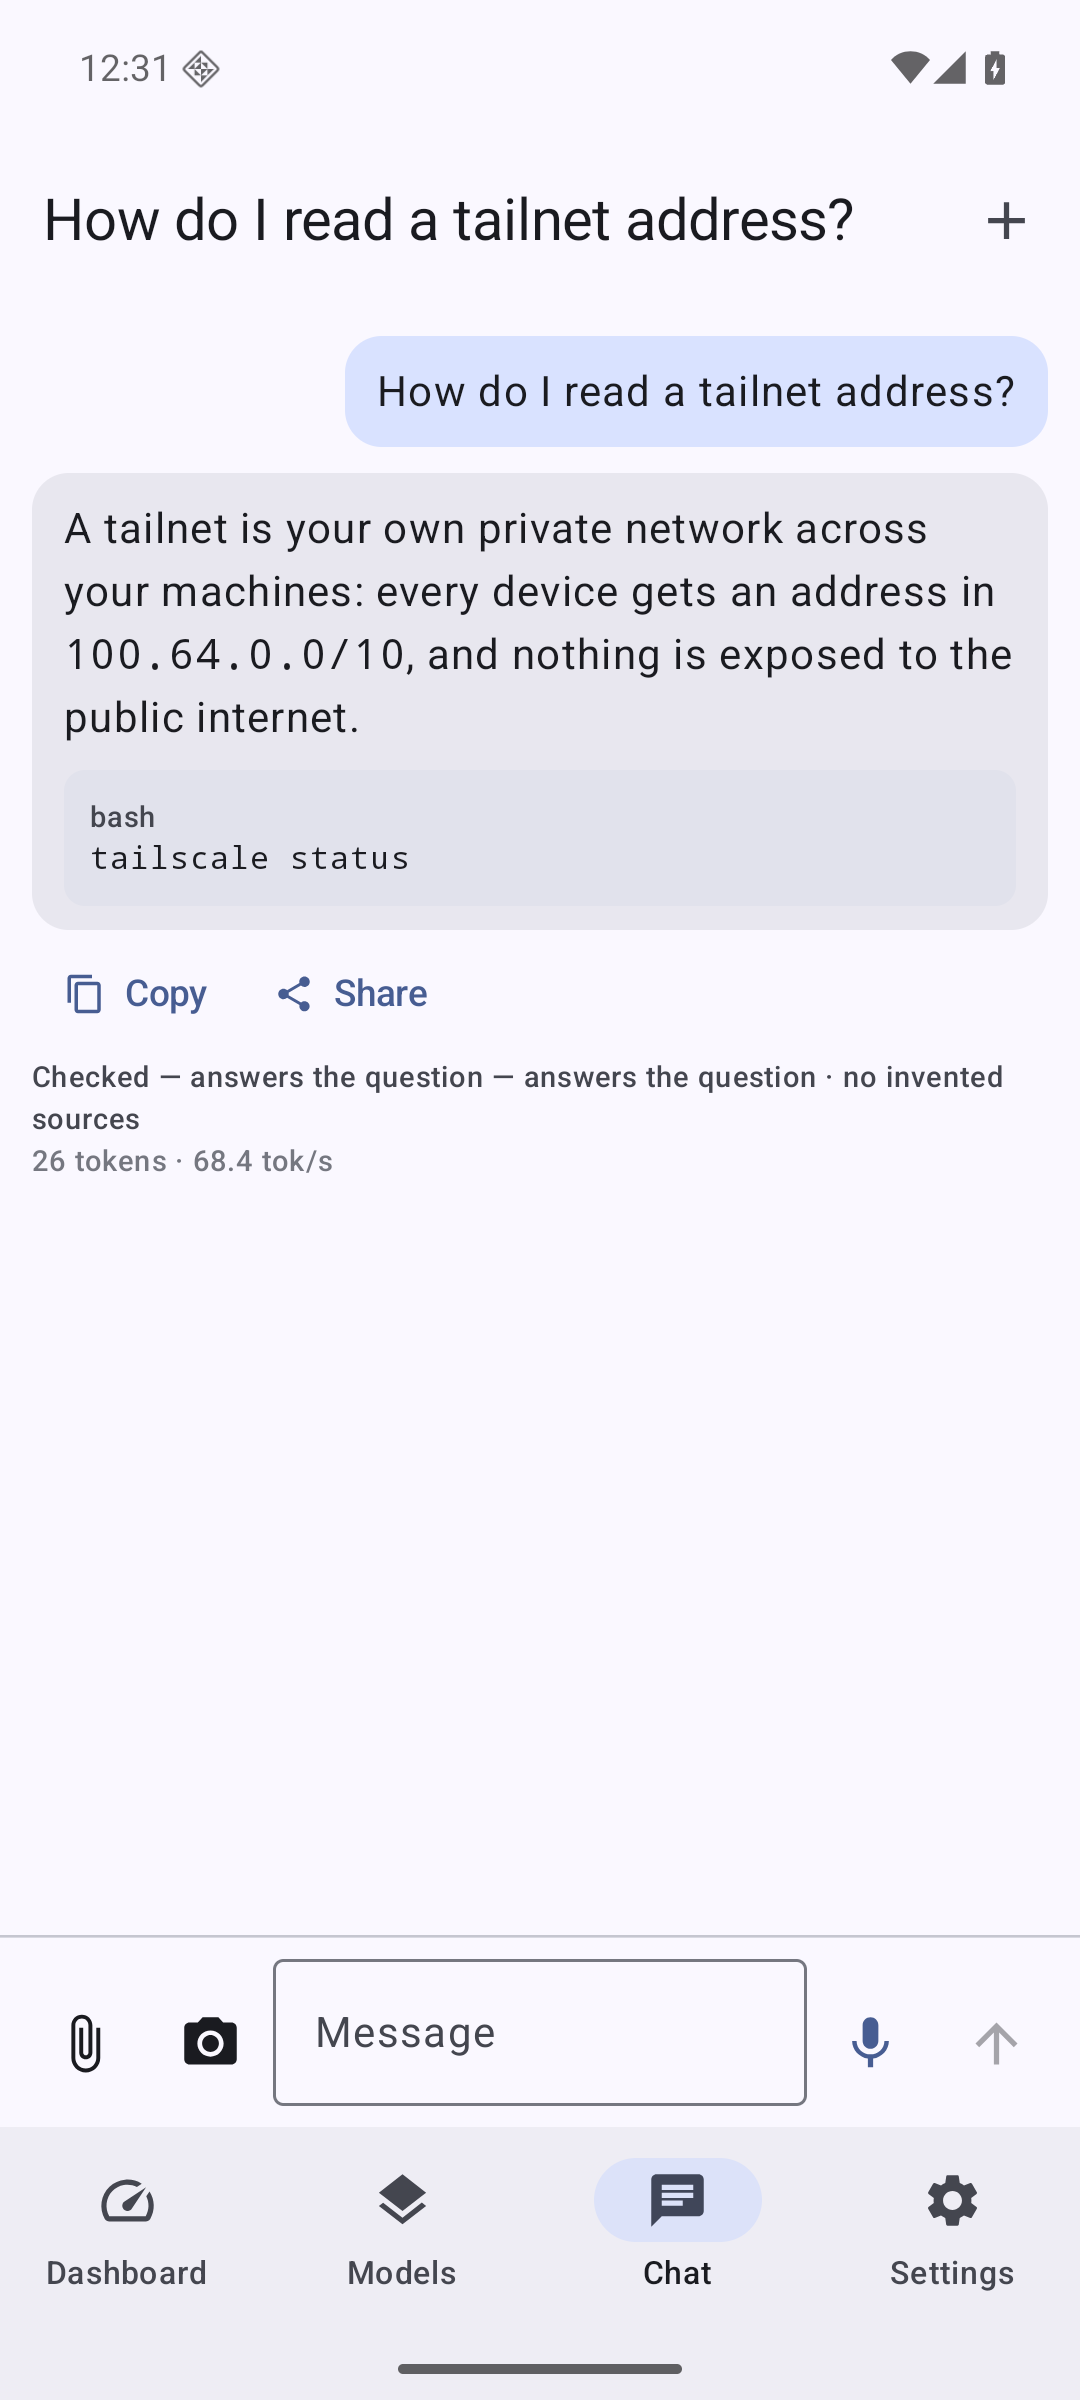
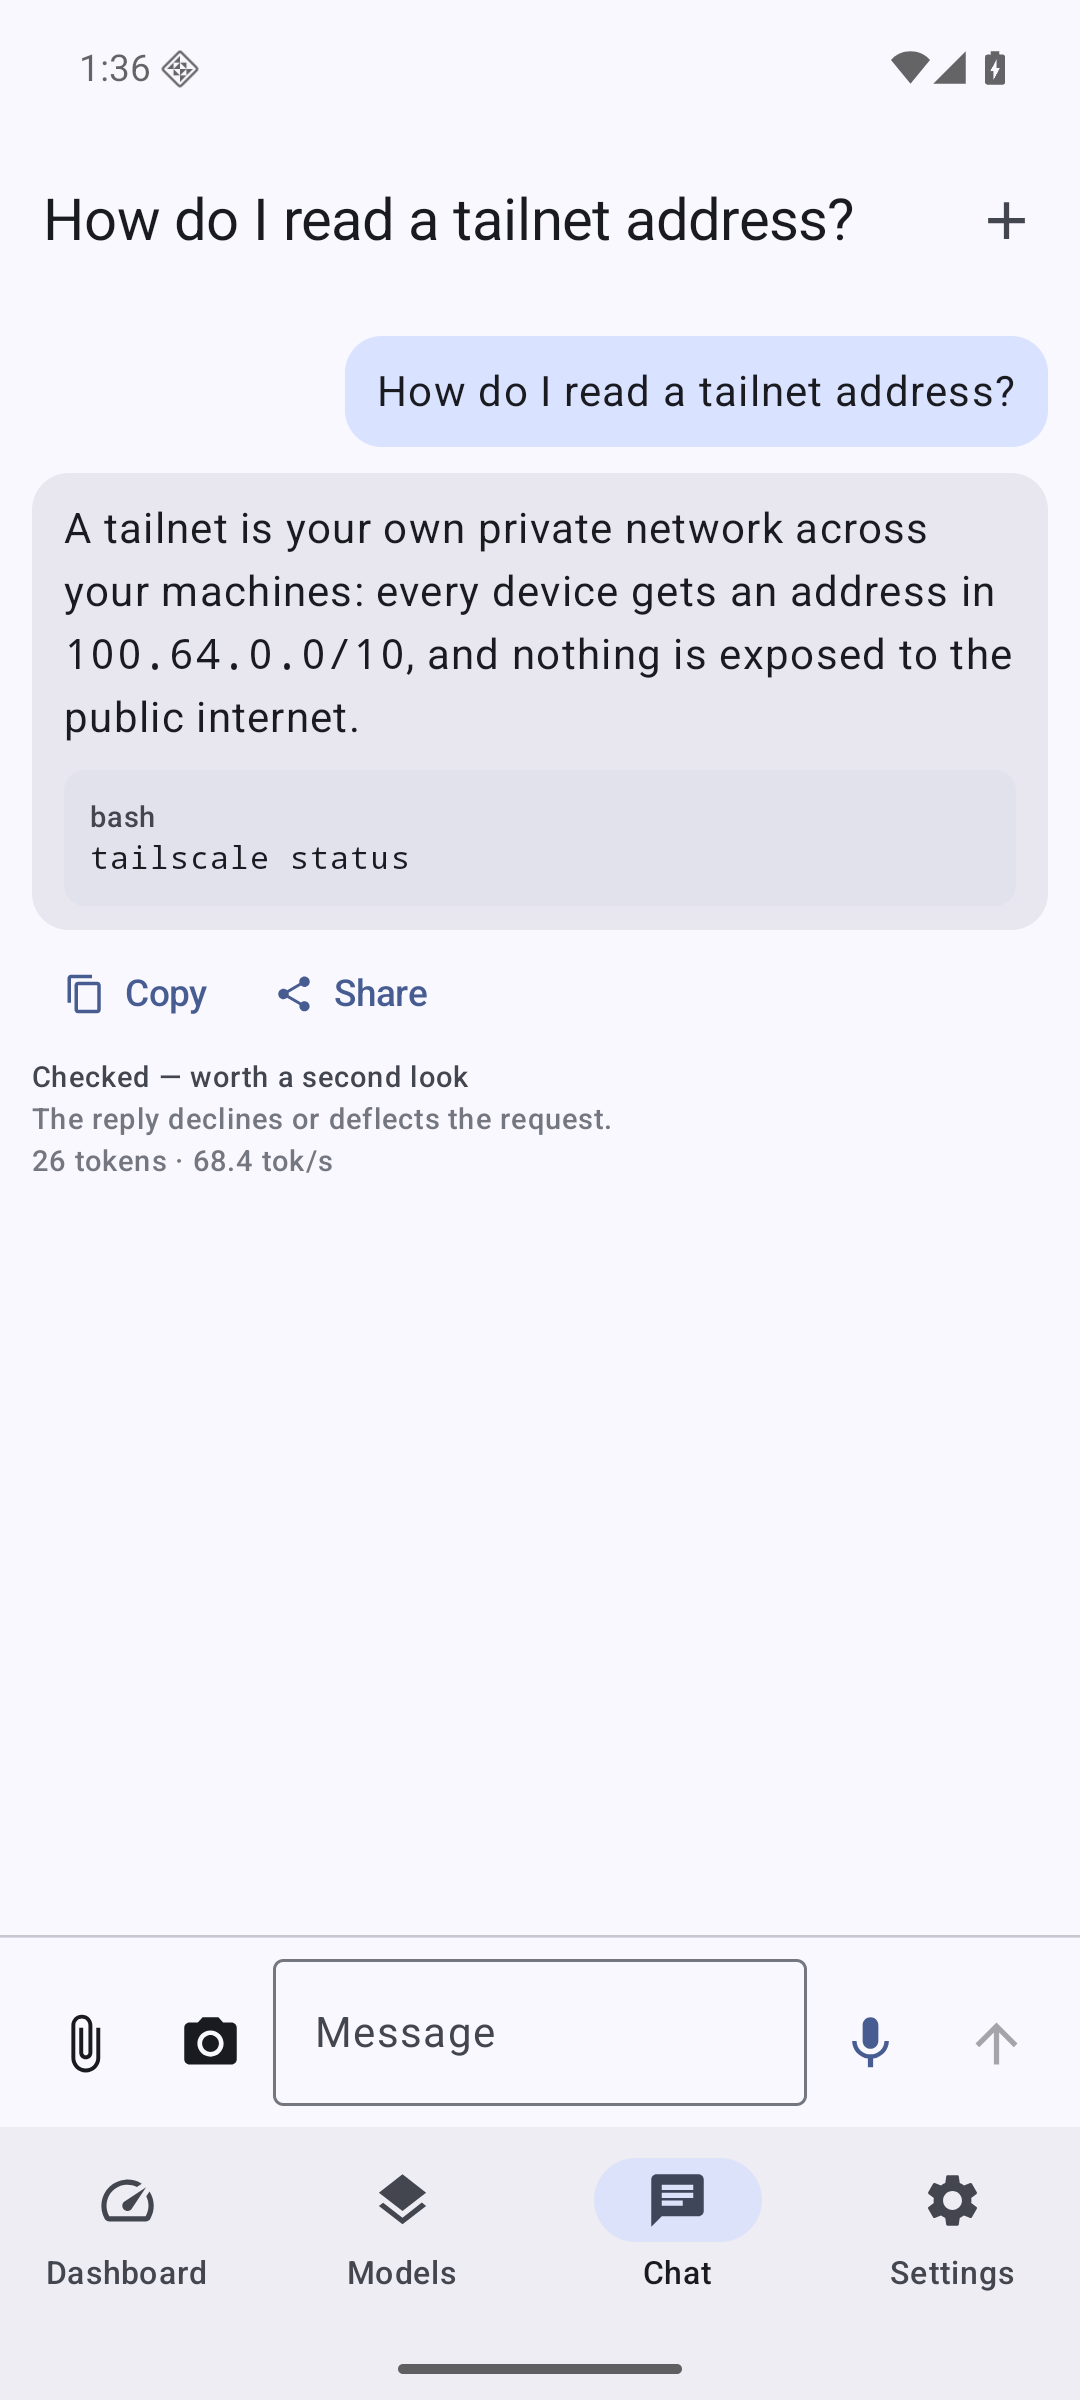
Review nits: the answer check, the headline, a picture that vanished
Android drew the check as one run-on sentence where iOS drew three lines; it
now draws three, and the screenshots of both were retaken because the wording
changed with the contract — "annotate" reads "worth a second look", not the
"ok/weak/fail" this side guessed at before the export existed.

A model name is cut to lose its parenthesised qualifier rather than break
mid-bracket: "Qwen3 4B (…" on a two-cell widget reads like the name itself is
broken, and the qualifier is the least load-bearing part of it.

`ImagePreparation` returned its last encode attempt without re-checking the
cap, so a picture too stubborn to shrink came back oversized — refused a moment
later by `attach` with a different message, or dropped silently by
`ShareNormaliser`. Either way a picture that vanished between being chosen and
being sent. It answers nil now.

The six unmirrored Jev and recommend routes were indented into the middle of
an alphabetical list; they are in place, and `docs/PLAN.md` says six rather
than five.

diff --git a/ios/SiliconBuddyTests/ContractTests.swift b/ios/SiliconBuddyTests/ContractTests.swift
@@ -224,17 +224,13 @@ final class ContractTests: XCTestCase {
     /// each one documents, are the Mac's answers as of the last refresh. When they
     /// change, `contract/refresh.sh` is the fix — not this list.
     static let expectedFixtures: Set<String> = [
-            // Routes the Mac grew for Jev's own settings, its calibration and the
-            // guardrail's recent screenings, plus the task-shaped `POST /recommend`.
-            // Listed so the export is accounted for; no type here mirrors them yet,
-            // because nothing in this app speaks them — the Jev settings are the Mac's
-            // own business and the node and recommend pages arrive in M3.
-            "GET__jev",
-            "GET__jev_calibration",
-            "GET__jev_guardrails_recent",
-            "POST__jev",
-            "POST__jev_calibrate",
-            "POST__recommend",
+        // The last six are routes the Mac grew for Jev's own settings, its
+        // calibration, the guardrail's recent screenings and the task-shaped
+        // `POST /recommend`. Listed so the export is accounted for; no type here
+        // mirrors them yet, because nothing in this app speaks them — the Jev
+        // settings are the Mac's own business and the pages that would use the
+        // other two arrive in M3. Mirroring a type nothing calls is a guess that
+        // rots.
         "DELETE__buddy_devices__id_",
         "GET__buddy_devices",
         "GET__catalog",
@@ -244,6 +240,9 @@ final class ContractTests: XCTestCase {
         "GET__health",
         "GET__image_models",
         "GET__installed",
+        "GET__jev",
+        "GET__jev_calibration",
+        "GET__jev_guardrails_recent",
         "GET__mesh_models",
         "GET__metrics",
         "GET__profile",
@@ -263,10 +262,13 @@ final class ContractTests: XCTestCase {
         "POST__image_generate",
         "POST__image_plan",
         "POST__install",
+        "POST__jev",
+        "POST__jev_calibrate",
         "POST__load",
         "POST__mesh_generate",
         "POST__mesh_plan",
         "POST__plan",
+        "POST__recommend",
         "POST__unload",
         "POST__v1_systemone",
         "POST__video_generate",

diff --git a/android/app/src/test/java/dev/siliconoptimizer/buddy/ContractTest.kt b/android/app/src/test/java/dev/siliconoptimizer/buddy/ContractTest.kt
@@ -247,17 +247,13 @@ class ContractTest {
          * `contract/refresh.sh` is the fix — not this list.
          */
         val EXPECTED_FIXTURES = setOf(
-            // Routes the Mac grew for Jev's own settings, its calibration and the
-            // guardrail's recent screenings, plus the task-shaped `POST /recommend`.
-            // Listed so the export is accounted for; no type here mirrors them yet,
-            // because nothing in this app speaks them — the Jev settings are the Mac's
-            // own business and the node and recommend pages arrive in M3.
-            "GET__jev",
-            "GET__jev_calibration",
-            "GET__jev_guardrails_recent",
-            "POST__jev",
-            "POST__jev_calibrate",
-            "POST__recommend",
+            // The last six are routes the Mac grew for Jev's own settings, its
+            // calibration, the guardrail's recent screenings and the task-shaped
+            // `POST /recommend`. Listed so the export is accounted for; no type
+            // here mirrors them yet, because nothing in this app speaks them —
+            // the Jev settings are the Mac's own business and the pages that
+            // would use the other two arrive in M3. Mirroring a type nothing
+            // calls is a guess that rots.
             "DELETE__buddy_devices__id_",
             "GET__buddy_devices",
             "GET__catalog",
@@ -267,6 +263,9 @@ class ContractTest {
             "GET__health",
             "GET__image_models",
             "GET__installed",
+            "GET__jev",
+            "GET__jev_calibration",
+            "GET__jev_guardrails_recent",
             "GET__mesh_models",
             "GET__metrics",
             "GET__profile",
@@ -286,10 +285,13 @@ class ContractTest {
             "POST__image_generate",
             "POST__image_plan",
             "POST__install",
+            "POST__jev",
+            "POST__jev_calibrate",
             "POST__load",
             "POST__mesh_generate",
             "POST__mesh_plan",
             "POST__plan",
+            "POST__recommend",
             "POST__unload",
             "POST__v1_systemone",
             "POST__video_generate",

diff --git a/android/app/src/main/java/dev/siliconoptimizer/buddy/AppState.kt b/android/app/src/main/java/dev/siliconoptimizer/buddy/AppState.kt
@@ -10,6 +10,8 @@ import androidx.lifecycle.viewModelScope
 import dev.siliconoptimizer.buddy.pairing.PairingInvite
 import dev.siliconoptimizer.buddy.pairing.TokenStore
 import dev.siliconoptimizer.buddy.reach.SnapshotStore
+import dev.siliconoptimizer.buddy.widget.BuddyWidget
+import androidx.glance.appwidget.updateAll
 import dev.siliconoptimizer.buddy.transport.ConnectivityProbe
 import dev.siliconoptimizer.buddy.transport.DeviceScope
 import dev.siliconoptimizer.buddy.transport.TailnetHost
@@ -118,6 +120,11 @@ class AppState(application: Application) : AndroidViewModel(application) {
     fun forget() {
         tokens.forget()
         snapshots.clear()
+        // And redraw, so "forget this Mac" is true on the home screen too rather than
+        // at the widget's next scheduled refresh half an hour later.
+        viewModelScope.launch {
+            runCatching { BuddyWidget().updateAll(getApplication()) }
+        }
         config = null
         status = null
         reachability = Reachability.Unknown

diff --git a/ios/SiliconBuddy/Reach/Attachments.swift b/ios/SiliconBuddy/Reach/Attachments.swift
@@ -47,8 +47,14 @@ public enum ImagePreparation {
             edge *= 0.75
             compression = max(0.4, compression - 0.15)
         }
-        return resize(image, maxEdge: edge).jpegData(compressionQuality: 0.4)
-            .map(ChatAttachment.init(jpeg:))
+        // The last attempt is only worth returning if it is finally inside the cap.
+        // Handing back an oversized one made `attach` refuse it a moment later with a
+        // different message, and left `ShareNormaliser` to drop it silently — a picture
+        // that vanished between being chosen and being sent.
+        guard let last = resize(image, maxEdge: edge).jpegData(compressionQuality: 0.4),
+              last.count <= SendLimits.maximumImageBytes
+        else { return nil }
+        return ChatAttachment(jpeg: last)
     }
 
     static func resize(_ image: UIImage, maxEdge: CGFloat) -> UIImage {

diff --git a/docs/PLAN.md b/docs/PLAN.md
@@ -51,9 +51,11 @@ Decided 2026-09-18 with the owner.
   reply read back and a toggle for that.
 - Not done: the Control Center control, and "Start a video…" — the video routes are
   M3's, and an intent that starts a render before the queue view exists would be a
-  button with nowhere to look at the result. `POST /jev`, `POST /recommend` and the
-  three other routes the Mac grew alongside this are in `contract/` but are not
-  mirrored by either app yet; they belong to M3's node and recommend pages.
+  button with nowhere to look at the result. Six routes the Mac grew alongside this —
+  `GET`/`POST /jev`, `GET /jev/calibration`, `POST /jev/calibrate`,
+  `GET /jev/guardrails/recent` and the task-shaped `POST /recommend` — are in
+  `contract/` but are not mirrored by either app yet; they belong to M3's node and
+  recommend pages.
 
 ### M3 — Media jobs and machines
 - Image, video, 3D from the phone on the Mac or the node; queue view; progress (Live Activity on iOS, ongoing notification on Android); results saved to the phone.
